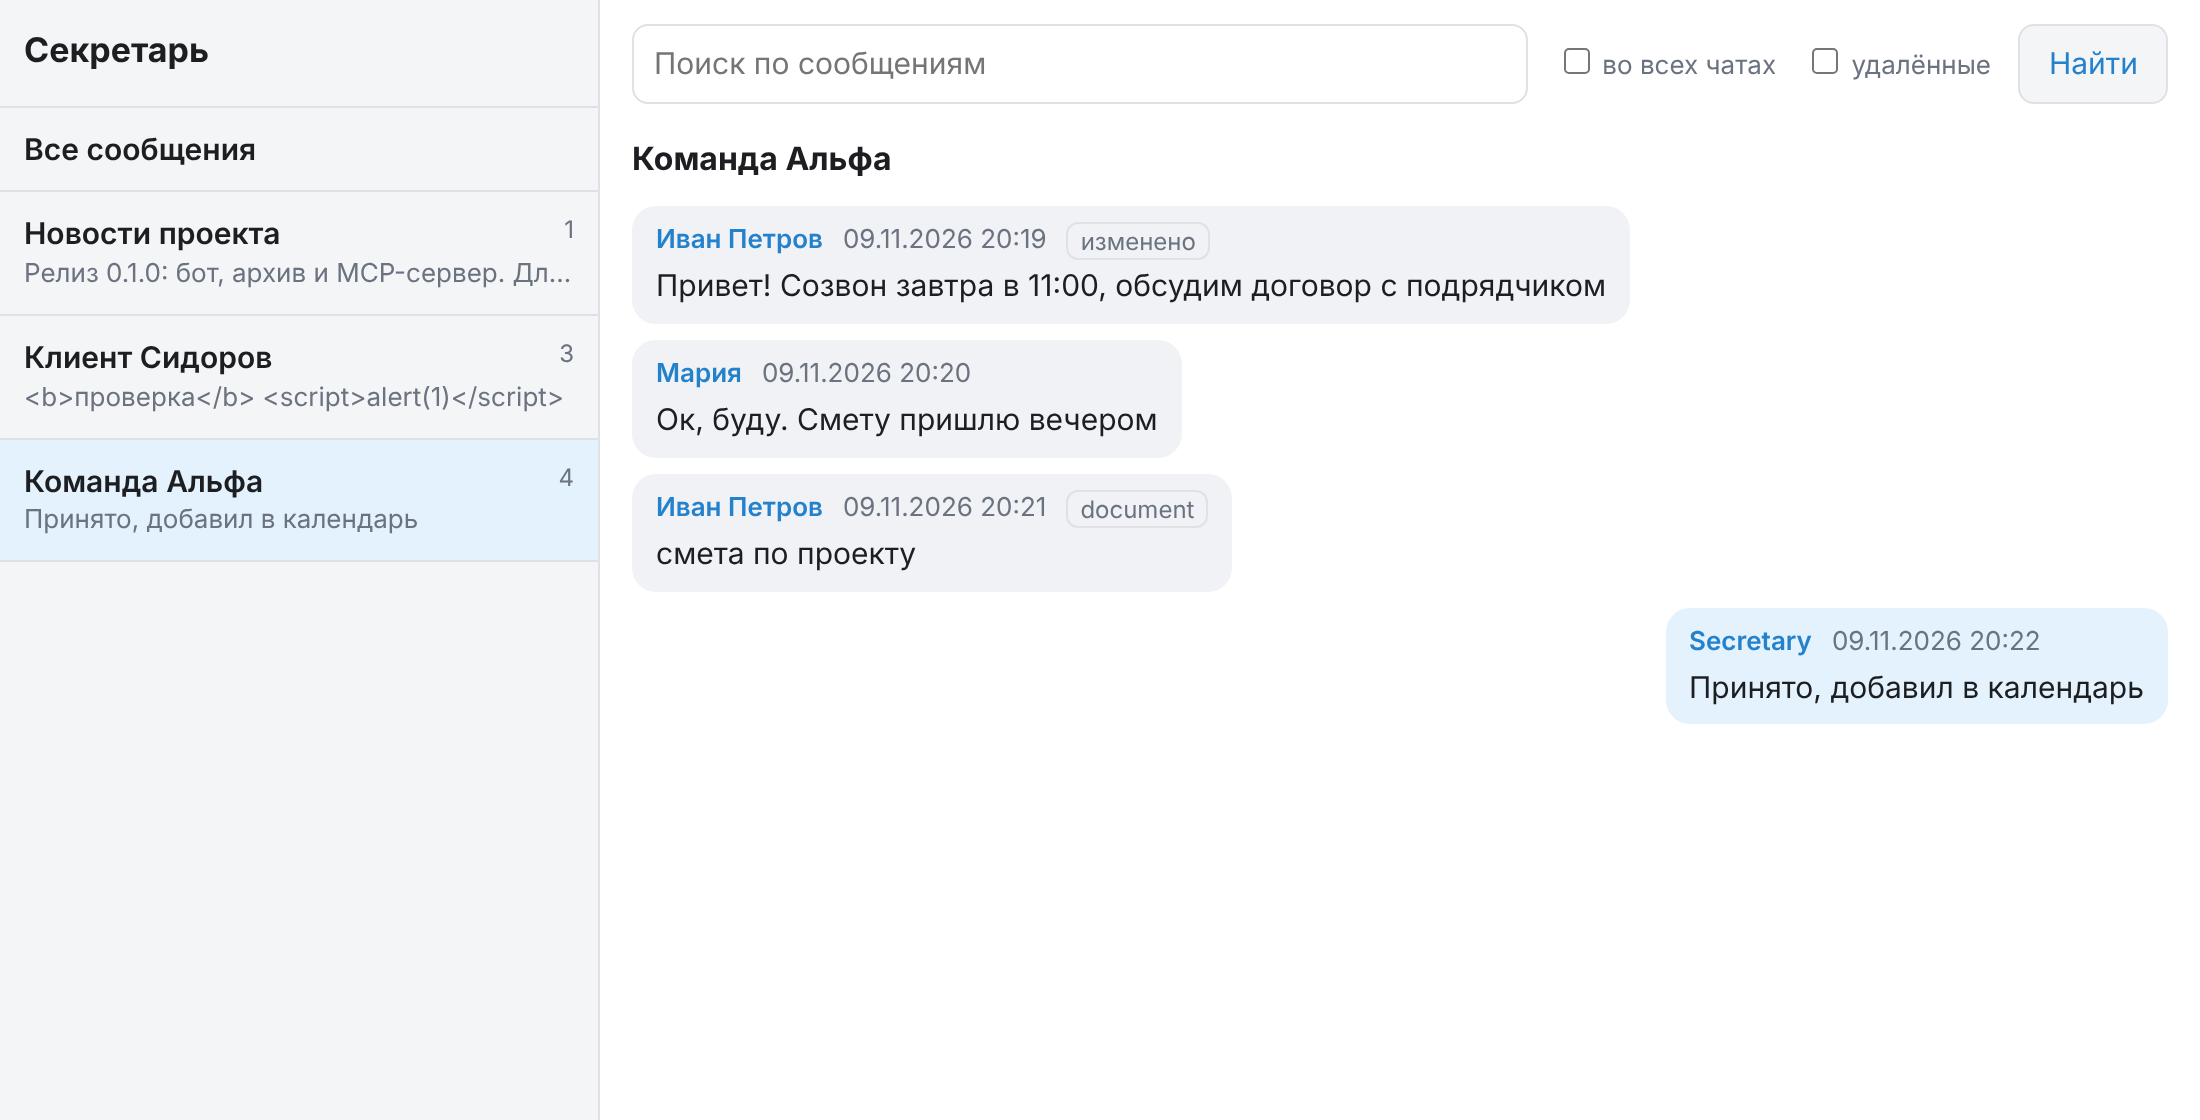
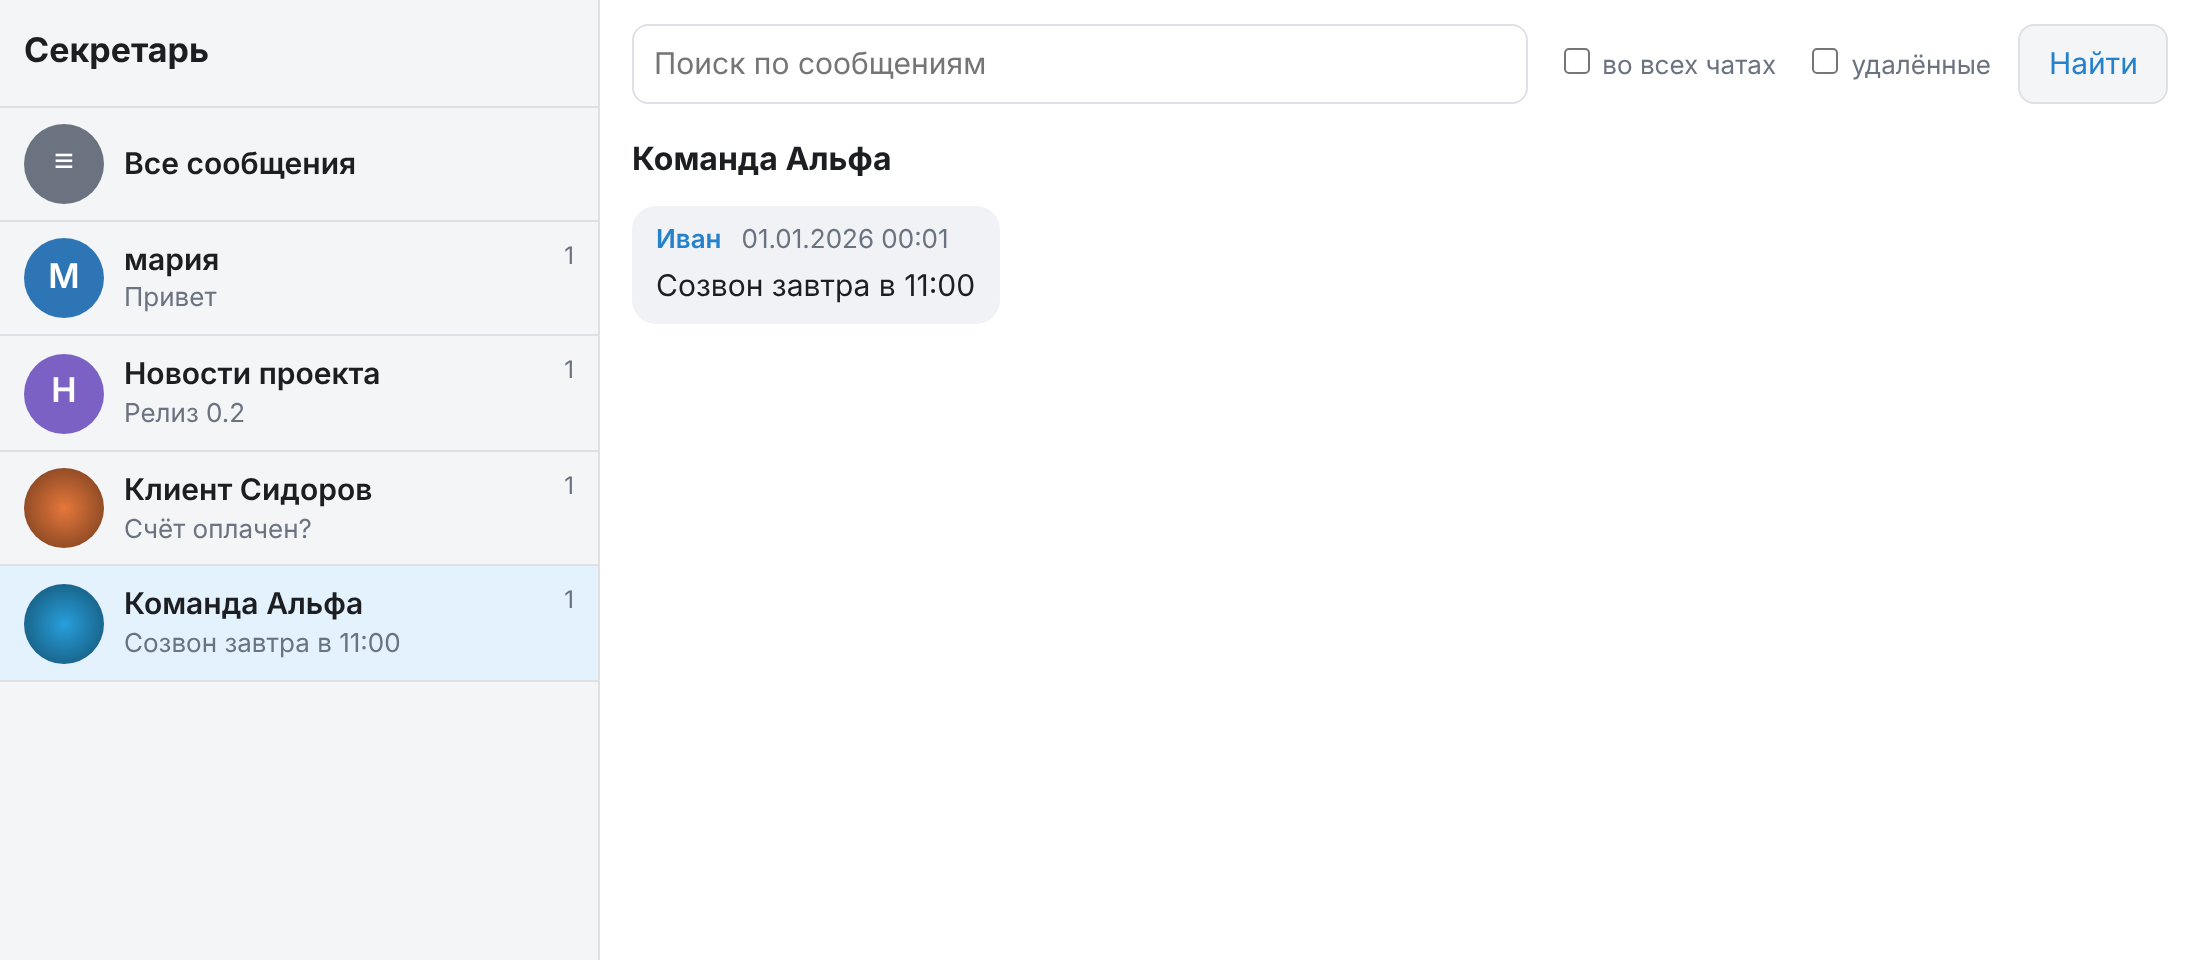
Prepare v0.2.0: changelog and refreshed UI screenshot
Claude-Session: https://claude.ai/code/session_01Rsow83o7e6VCkb4yMWV9p3

diff --git a/CHANGELOG.md b/CHANGELOG.md
@@ -5,6 +5,8 @@
 
 ## [Unreleased]
 
+## [0.2.0]
+
 ### Added
 
 - Пересланные сообщения: сохраняются автор и дата оригинала (`forward_origin` Bot API), они видны
